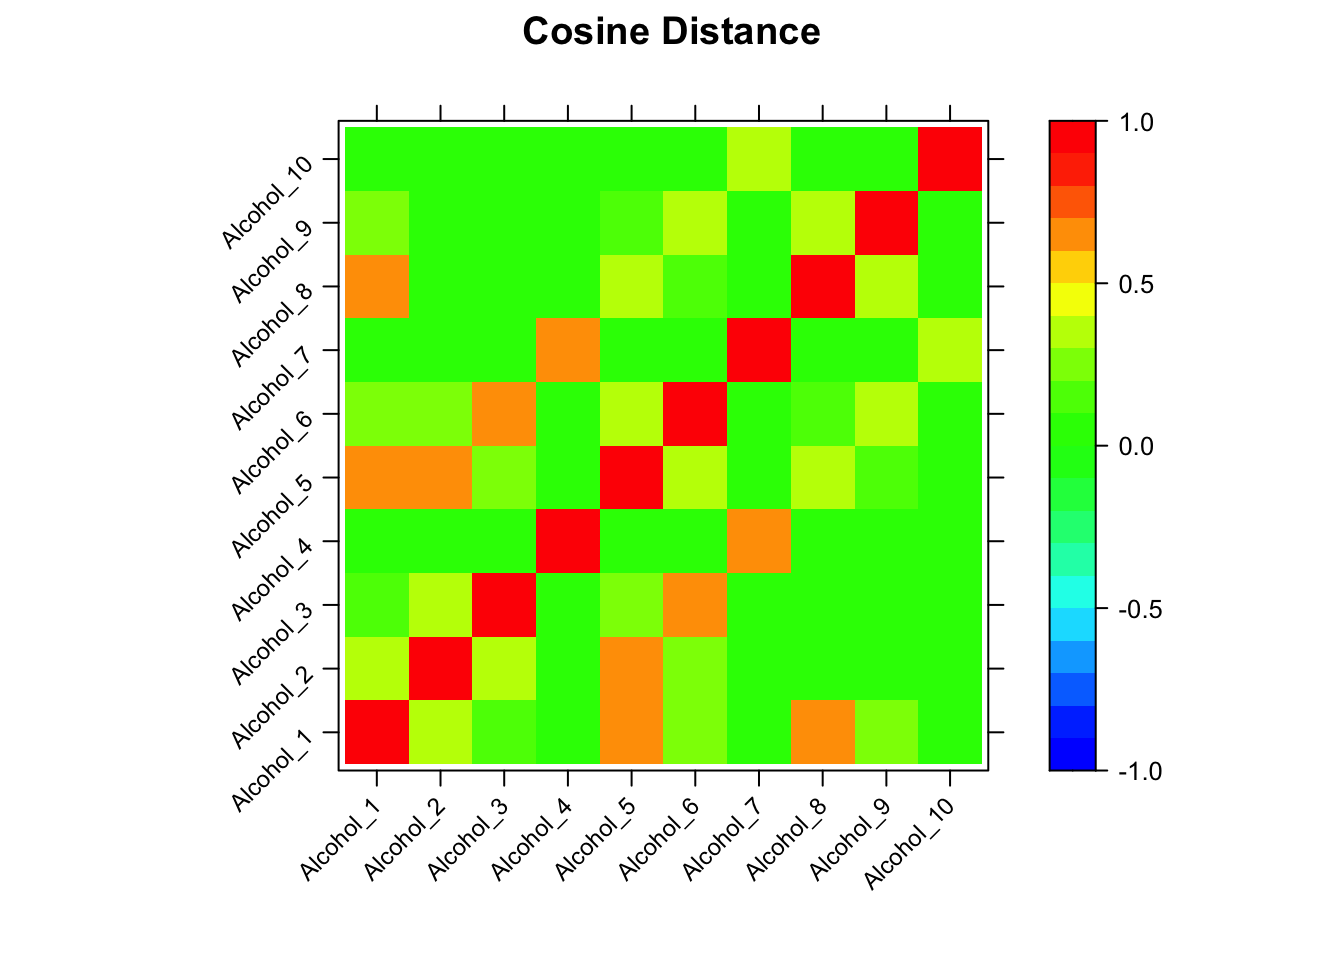
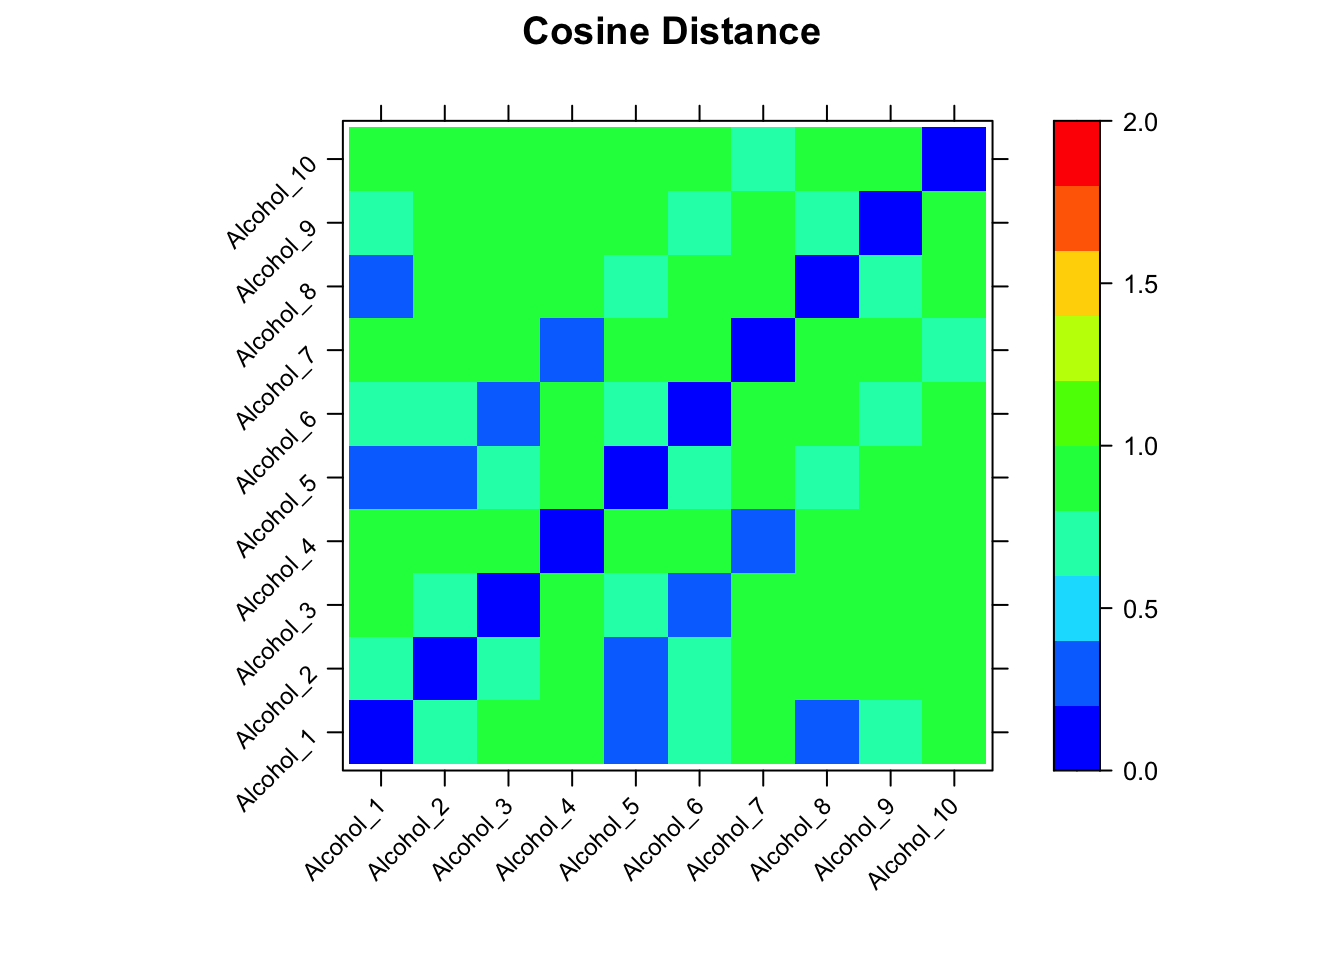
Post 12

diff --git a/content/post/P12_hmapSpectra.html b/content/post/P12_hmapSpectra.html
@@ -1,0 +1,81 @@
+---
+title: "Spectral Heatmaps"
+author: "Bryan Hanson"
+date: 2020-04-25
+tags: ["R", "heatmap", "seriation", "ChemoSpec"]
+slug: "P12"
+bibliography: REFS.bib
+draft: false
+---
+
+<script src="/rmarkdown-libs/header-attrs/header-attrs.js"></script>
+
+
+<p>Most everyone is familiar with heatmaps in a general way. It’s hard not to run into them. Let’s consider some variations:</p>
+<ul>
+<li>A heatmap is a 2D array of rectangular cells colored by value. Generally, the rows and columns are ordered in some purposeful manner. These are very commonly encountered in microarrays for example.</li>
+<li>An image is a type of heatmap in which the ordering of the rows and columns is defined spatially – it would not make sense to reorder them. This kind of data arises from the physical dimensions of a sensor, for instance the sensor on a digital camera or a raman microscope. An image might also arise by a decision to subset and present data in a “square” format. An example would be the topographic maps provided by the US government which cover a rectangular latitude/longitude range. This type of data can also be presented as a contour plot. See the examples in <code>?image</code> for image and contour plots of the classic Maunga Whau volcano data, as well as an overlay of the contours on the image plot.</li>
+<li>A chloropleth is a map with irregular geographic boundaries and regions colored by some value. These are typically used in presenting social or political data. A chloropleth is not really a heatmap but it is often mis-characterized as one.</li>
+</ul>
+<p>These three types of plots are conceptually unified in that they require a 3D data set. In the case of the heatmap and the image, the underlying data are on a regular x, y grid of values; mathematically, a matrix. The row and column indices are mapped to the x, y values, and the matrix entries are the z values. A chloropleth can be thought of as a very warped matrix where the cells are not on a regular grid but instead a series of arbitrary connected paths, namely the geographic boundaries. There is a value inside each connected path (the z value), but naturally the specification of the paths requires a completely different data structure. An intermediate type would be the cartogram heatmap described by <a href="https://serialmentor.com/dataviz/geospatial-data.html#cartograms">Wilke</a>.</p>
+<div id="heatmaps-in-spectroscopy-hmapspectra" class="section level1">
+<h1>Heatmaps in Spectroscopy: hmapSpectra</h1>
+<p>The <code>hmapSpectra</code> function in <code>ChemoSpec</code> displays a heatmap to help you focus on which frequencies drive the separation of your samples.<a href="#fn1" class="footnote-ref" id="fnref1"><sup>1</sup></a> We’ll use the example from <code>?hmapSpectra</code> which uses the built-in <code>SrE.IR</code> data set. This data set is a series of IR spectra of commercial <em>Serenoa repens</em> oils which are composed of mixtures of triglycerides and free fatty acids (see <code>?SrE.IR</code> for more information). Thus the carbonyl region is of particular interest. The example narrows the frequency range to the carbonyl region for easy interpretation. Let’s look first at the spectra.</p>
+<p><em>Note: rather than link every mention of a help page in this post, remember you can see all the documentation at this <a href="https://bryanhanson.github.io/ChemoSpec/reference/index.html">site</a>.</em></p>
+<pre class="r"><code>library(&quot;ChemoSpec&quot;)</code></pre>
+<pre><code>## Loading required package: ChemoSpecUtils</code></pre>
+<pre class="r"><code>data(SrE.IR) # load the data set
+# limit to the carbonyl region
+IR &lt;- removeFreq(SrE.IR, rem.freq = SrE.IR$freq &gt; 1775 | SrE.IR$freq &lt; 1660)
+plotSpectra(IR, which = 1:16, lab.pos = 1800)</code></pre>
+<p><img src="/post/P12_hmapSpectra_files/figure-html/showSpectra-1.png" width="672" /></p>
+<p>The blue and green spectra are samples composed only of triglycerides, and hence the ester carbonyl is the primary feature. All other samples are clearly mixtures of ester and carboxylic acid stretching peaks. And now for the heatmap, using defaults:</p>
+<pre class="r"><code>res &lt;- hmapSpectra(IR)</code></pre>
+<pre><code>## Registered S3 method overwritten by &#39;seriation&#39;:
+##   method         from 
+##   reorder.hclust gclus</code></pre>
+<p><img src="/post/P12_hmapSpectra_files/figure-html/defaultMap-1.png" width="672" /></p>
+<p>In this default display, you’ll notice that the rows and column labels are indices to the underlying sample names and frequency list. This is not so helpful. The color scheme is not so exciting either. <code>hmapSpectra</code> uses the package <code>seriation</code> which in turn uses the <code>heatmap.2</code> function in package <code>gplots</code>. Fortunately we can use the <code>...</code> argument to pass additional arguments to <code>heatmap.2</code> to get a much more useful plot.</p>
+</div>
+<div id="customizing-the-hmapspectra-display" class="section level1">
+<h1>Customizing the hmapSpectra Display</h1>
+<pre class="r"><code># Label samples and frequencies by passing arguments to heatmap.2
+# Also make a few other nice plot adjustments
+res &lt;- hmapSpectra(IR,
+  col = heat.colors(5),
+  labRow = IR$names, labCol = as.character(round(IR$freq)),
+  margins = c(4, 6), key.title = &quot;&quot;
+)</code></pre>
+<p><img src="/post/P12_hmapSpectra_files/figure-html/betterMap-1.png" width="672" /></p>
+<p>This is a lot nicer plot, since the rows are labeled with the sample names, and the columns with frequencies. Note that not every column is labeled, only every few frequencies. If you need the actual frequencies, which you probably will, they can be obtained from the returned object (<code>res</code> in this case; see the end of this post for an example).</p>
+</div>
+<div id="interpreting-the-plot" class="section level1">
+<h1>Interpreting the Plot</h1>
+<p>How do we interpret this plot? This is a <em>seriated</em> heatmap, which means the rows and columns have been re-ordered according to some algorithm (more on this in a moment). The ordering puts the frequencies most important in distinguishing the samples in the upper left and lower right (the yellow regions). In the lower right corner, we see the two outlier samples TJ_OO and SV_EPO grouped together. On the frequency axis, we see that ester stretching peaks around 1740 <span class="math inline">\(\mathrm{cm}^1\)</span> are characteristic for these samples. In the upper left corner, we see several samples grouped together, and associated with the fatty acid carboxylic acid peak around 1710 <span class="math inline">\(\mathrm{cm}^1\)</span>. From these two observations, we can conclude that these two peak ranges are most important in separating the samples. Of course, in this simple example using a small part of the spectrum, this answer was already clear by simple inspection. Using a simple/limited range of data helps us to be sure we understand what’s happening when we try a new technique.</p>
+</div>
+<div id="using-a-different-distance-measure-seriation-method" class="section level1">
+<h1>Using a Different Distance Measure &amp; Seriation Method</h1>
+<p>The default data treatments for <code>hmapSpectra</code> are inherited from <code>hmap</code> in package <code>seriation</code>. The default distance between the samples is the Euclidean distance. The default seriation method is “OLO” or “optimal leaf ordering”. The full list of seriation methods is described in <code>?seriate</code>. There are more than 20 options. As with the display details, we can change these defaults via the <code>...</code> arguments. Let’s use the cosine distance (the same as the Pearson distance), and seriate using the Gruvaeus-Wainer algorithm (there’s a brief explanation of this algorithm at <code>?seriate</code>).</p>
+<pre class="r"><code>cosine_dist &lt;- function(x) as.dist(1 - cor(t(x)))
+res &lt;- hmapSpectra(IR,
+  col = heat.colors(5),
+  labRow = IR$names, labCol = as.character(round(IR$freq)),
+  margins = c(4, 6), key.title = &quot;&quot;,
+    dist_fun = cosine_dist,
+    method = &quot;GW&quot;
+)</code></pre>
+<p><img src="/post/P12_hmapSpectra_files/figure-html/bestMap-1.png" width="672" /></p>
+<p>You can see that using different distance measures and seriation algorithms gives a rather different result: the ester “hot spots” which were in the lower right corner are now almost in the lower left corner. Which settings are best will depend on your data set, the goal of your analysis, and there are a lot of options from which to choose. The settings used here are simply for demonstration purposes, I make no claim these settings are appropriate!</p>
+<p>Finally, if you want to capture the re-ordered frequencies, you can access them in the returned object:</p>
+<pre class="r"><code>round(IR$freq[res$colInd])</code></pre>
+<pre><code>##  [1] 1709 1707 1711 1713 1705 1714 1703 1701 1716 1743 1741 1745 1747 1740 1749
+## [16] 1738 1736 1751 1734 1757 1755 1753 1732 1730 1728 1726 1724 1722 1718 1720
+## [31] 1697 1699 1695 1693 1691 1689 1687 1686 1684 1682 1680 1678 1676 1674 1670
+## [46] 1672 1668 1666 1664 1662 1660 1774 1772 1770 1768 1767 1765 1763 1761 1759</code></pre>
+</div>
+<div class="footnotes">
+<hr />
+<ol>
+<li id="fn1"><p>Other functions in <code>ChemoSpec</code> that can help you explore which frequencies are important are <code>plotLoadings</code>, <code>plot2Loadings</code> and <code>sPlotSpectra</code>.<a href="#fnref1" class="footnote-back">↩</a></p></li>
+</ol>
+</div>

diff --git a/content/post/P10_2D_NMR_Alignment_Pt_3.html b/content/post/P10_2D_NMR_Alignment_Pt_3.html
@@ -29,59 +29,59 @@ set.seed(123)</code></pre>
 <pre><code>## [ChemoSpec2D] Processing row  1  of  9  from the guide tree:
 ## [ChemoSpec2D] Starting alignment of sample(s) 7 
 ##  with sample(s) 4 
-## [ChemoSpec2D] Best alignment is to shift F2 by  0  and F1 by  -1 
+## [ChemoSpec2D] Best alignment is to shift F2 by  0  and F1 by  1 
 ## 
 ## [ChemoSpec2D] Processing row  2  of  9  from the guide tree:
 ## [ChemoSpec2D] Starting alignment of sample(s) 6 
 ##  with sample(s) 3 
-## [ChemoSpec2D] Best alignment is to shift F2 by  0  and F1 by  -1 
+## [ChemoSpec2D] Best alignment is to shift F2 by  0  and F1 by  1 
 ## 
 ## [ChemoSpec2D] Processing row  3  of  9  from the guide tree:
 ## [ChemoSpec2D] Starting alignment of sample(s) 5 
 ##  with sample(s) 2 
-## [ChemoSpec2D] Best alignment is to shift F2 by  0  and F1 by  -1 
+## [ChemoSpec2D] Best alignment is to shift F2 by  0  and F1 by  1 
 ## 
 ## [ChemoSpec2D] Processing row  4  of  9  from the guide tree:
 ## [ChemoSpec2D] Starting alignment of sample(s) 8 
 ##  with sample(s) 1 
-## [ChemoSpec2D] Best alignment is to shift F2 by  0  and F1 by  -1 
+## [ChemoSpec2D] Best alignment is to shift F2 by  0  and F1 by  1 
 ## 
 ## [ChemoSpec2D] Processing row  5  of  9  from the guide tree:
 ## [ChemoSpec2D] Starting alignment of sample(s) 1, 8 
 ##  with sample(s) 9 
-## [ChemoSpec2D] Best alignment is to shift F2 by  2  and F1 by  1 
+## [ChemoSpec2D] Best alignment is to shift F2 by  -2  and F1 by  -1 
 ## 
 ## [ChemoSpec2D] Processing row  6  of  9  from the guide tree:
 ## [ChemoSpec2D] Starting alignment of sample(s) 2, 5 
 ##  with sample(s) 3, 6 
-## [ChemoSpec2D] Best alignment is to shift F2 by  2  and F1 by  0 
+## [ChemoSpec2D] Best alignment is to shift F2 by  -2  and F1 by  0 
 ## 
 ## [ChemoSpec2D] Processing row  7  of  9  from the guide tree:
 ## [ChemoSpec2D] Starting alignment of sample(s) 4, 7 
 ##  with sample(s) 10 
-## [ChemoSpec2D] Best alignment is to shift F2 by  0  and F1 by  3 
+## [ChemoSpec2D] Best alignment is to shift F2 by  0  and F1 by  -3 
 ## 
 ## [ChemoSpec2D] Processing row  8  of  9  from the guide tree:
 ## [ChemoSpec2D] Starting alignment of sample(s) 2, 3, 5, 6 
 ##  with sample(s) 1, 8, 9 
-## [ChemoSpec2D] Best alignment is to shift F2 by  0  and F1 by  3 
+## [ChemoSpec2D] Best alignment is to shift F2 by  0  and F1 by  -3 
 ## 
 ## [ChemoSpec2D] Processing row  9  of  9  from the guide tree:
 ## [ChemoSpec2D] Starting alignment of sample(s) 1, 2, 3, 5, 6, 8, 9 
 ##  with sample(s) 4, 7, 10 
-## [ChemoSpec2D] Best alignment is to shift F2 by  -5  and F1 by  0 
+## [ChemoSpec2D] Best alignment is to shift F2 by  5  and F1 by  0 
 ## 
 ## [ChemoSpec2D] Alignment steps and results:
 ##        Ref                Mask F2shift F1shift
-## 1        4                   7       0      -1
-## 2        3                   6       0      -1
-## 3        2                   5       0      -1
-## 4        1                   8       0      -1
-## 5        9                1, 8       2       1
-## 6     3, 6                2, 5       2       0
-## 7       10                4, 7       0       3
-## 8  1, 8, 9          2, 3, 5, 6       0       3
-## 9 4, 7, 10 1, 2, 3, 5, 6, 8, 9      -5       0</code></pre>
+## 1        4                   7       0       1
+## 2        3                   6       0       1
+## 3        2                   5       0       1
+## 4        1                   8       0       1
+## 5        9                1, 8      -2      -1
+## 6     3, 6                2, 5      -2       0
+## 7       10                4, 7       0      -3
+## 8  1, 8, 9          2, 3, 5, 6       0      -3
+## 9 4, 7, 10 1, 2, 3, 5, 6, 8, 9       5       0</code></pre>
 <p>As the alignment proceeds, updates from the function are prefixed with <code>[ChemoSpec2D]</code>. In the first step we get a message that row 1 of 9 of the guide tree is being processed, in which sample 7 is being aligned with sample 4. The guide tree is shown below. One can see that samples 7 and 4 are very similar, so they are aligned first. If you inspect the output above, you can see that the four most similar pairs of spectra are aligned first, followed by groups of spectra according to similarity. For each alignment the needed shifts are reported. The last part of the output is a summary of all the alignments carried out. Note that the vertical scale on the guide tree is the same as the scale on the <code>sampleDist</code> plot in Part 1 (using the Euclidean distance).</p>
 <p><img src="/images/P10_Dendrogram.png" alt="X Space" style="width:600px;"/></p>
 <div id="diagnostics-on-space" class="section level2">

diff --git a/content/post/P8_2D_NMR_Alignment_Pt_1.html b/content/post/P8_2D_NMR_Alignment_Pt_1.html
@@ -28,7 +28,7 @@ plotSpectra2D(MUD2, which = c(1, 6), showGrid = TRUE,
 <pre class="r"><code>cos_dist &lt;- sampleDist(MUD2, method = &quot;cosine&quot;,
   main = &quot;Cosine Distance&quot;)</code></pre>
 <p><img src="/post/P8_2D_NMR_Alignment_Pt_1_files/figure-html/cosine-1.png" width="672" /></p>
-<p>The actual numerical values are in <code>cos_dist</code>, a matrix. Looking at the heatmap, there are some modest differences among the spectra. However, if one looks at the scale, cosine distances are only defined on [-1 … 1]. While the cosine distance is popular in many spectroscopic contexts, it’s not the best objective function for our purpose because there is little absolute difference between -1 and 1 (and for <code>MUD2</code> the absolute differences are even smaller, as the range is only 0, 0.67). This limited range affects the alignment process in a subtle way that we won’t cover here (alignment is still successful, however).</p>
+<p>The actual numerical values are in <code>cos_dist</code>, a matrix. Looking at the heatmap, there are some modest differences among the spectra. However, if one looks at the scale, cosine distances are only defined on [-1 … 1]. While the cosine distance is popular in many spectroscopic contexts, it’s not the best objective function for our purpose because there is little absolute difference between -1 and 1 (and for <code>MUD2</code> the absolute differences are even smaller, as the range is only 0, 0.99). This limited range affects the alignment process in a subtle way that we won’t cover here (alignment is still successful, however).</p>
 <p>Let’s consider instead the Euclidean distance.</p>
 <pre class="r"><code>eu_dist &lt;- sampleDist(MUD2, method = &quot;euclidean&quot;,
   main = &quot;Euclidean Distance&quot;)</code></pre>
